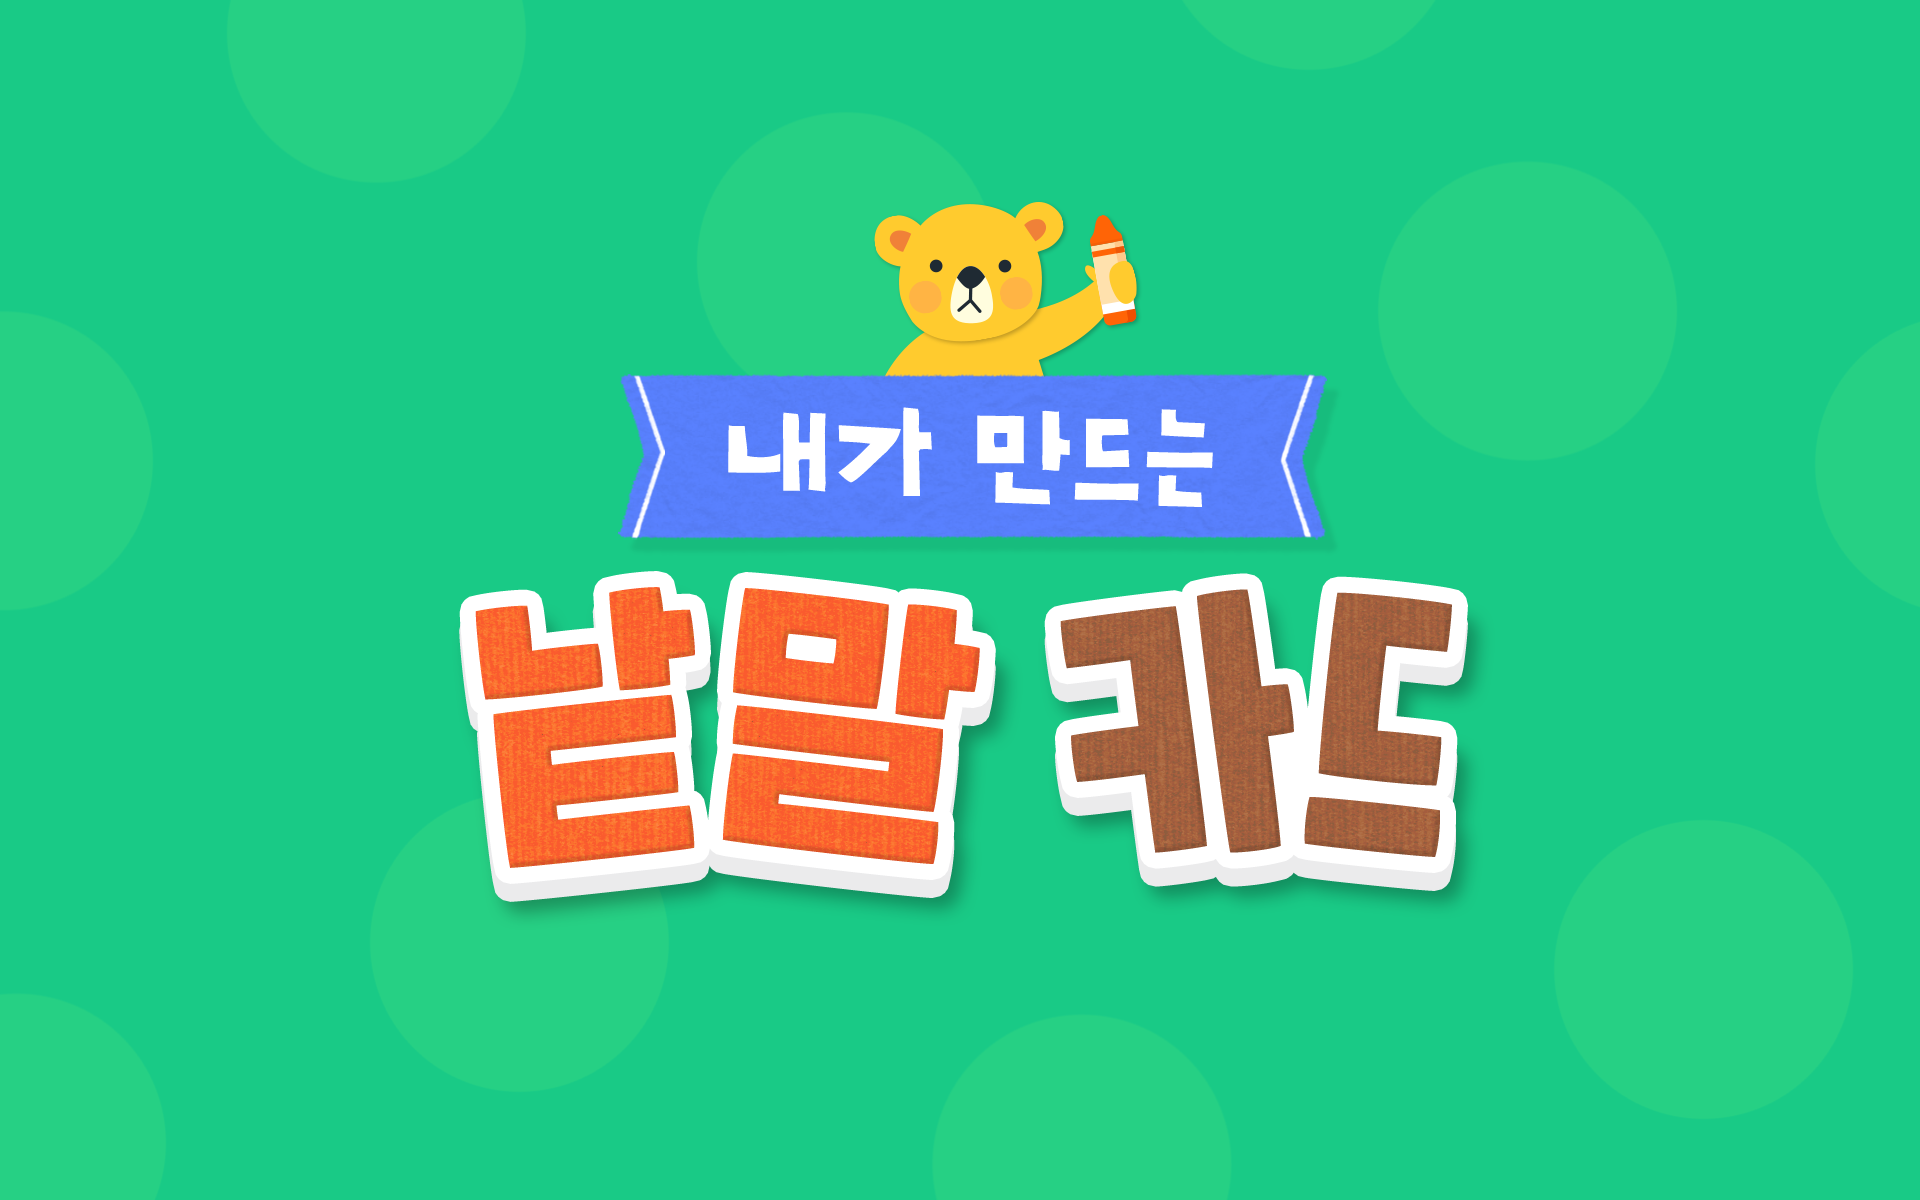
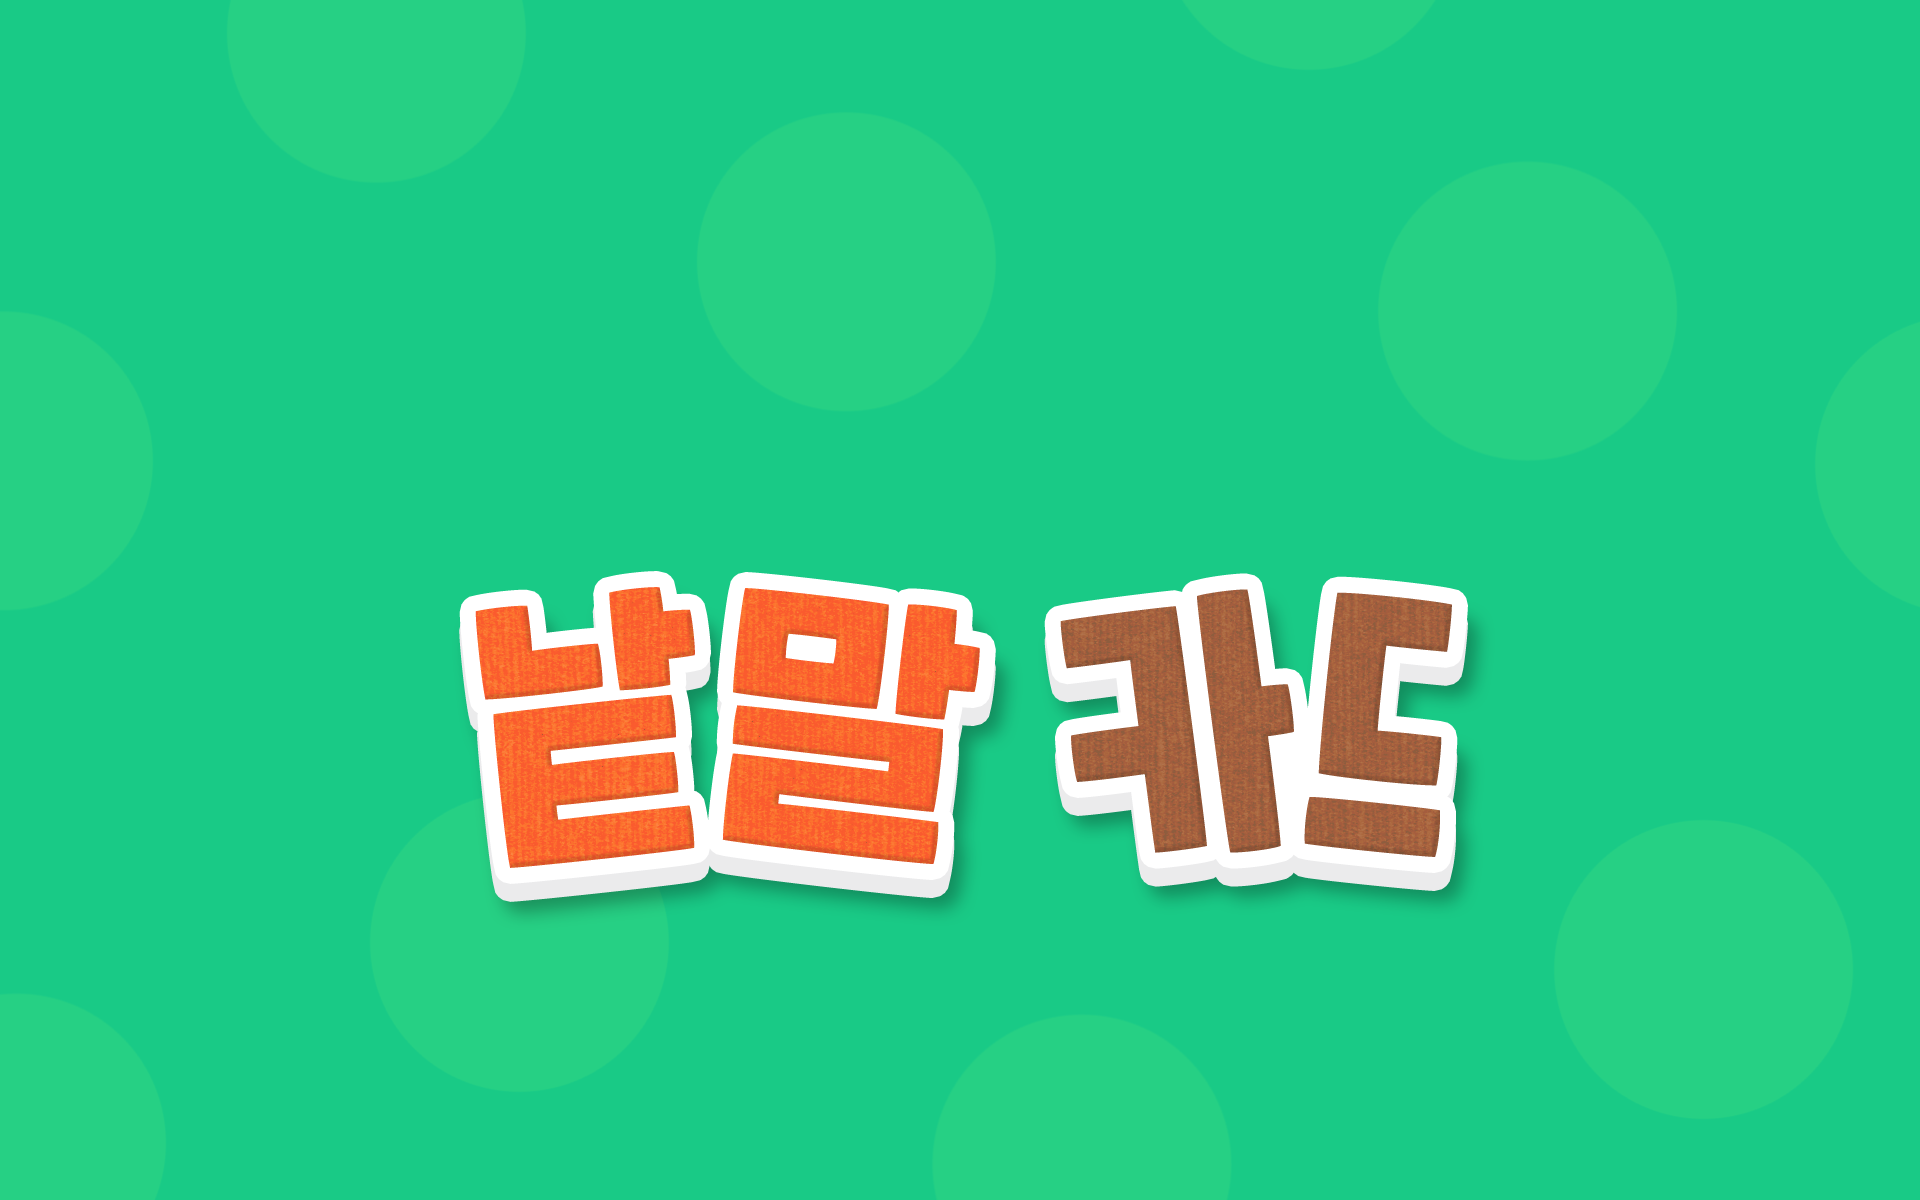
인트로 / 완료 수정

Changed region(s): [[0.3125, 0.1542, 0.6875, 0.4625]]

diff --git a/wj_smartall_kids/COMM/JS/COMMON.JS b/wj_smartall_kids/COMM/JS/COMMON.JS
@@ -45,6 +45,8 @@ var fanfareBgm = new Audio('../../../COMM/MP3/FANFARE.mp3'); // 빵빠레
 var dropBgm3 = new Audio('../../../COMM/MP3/DROPING.mp3'); // 드래그앤드랍 시
 var doneBgm3 = new Audio('../../../COMM/MP3/DONE.mp3'); // 완료
 var coloringBgm = new Audio('../../../COMM/MP3/COLORING.mp3'); // 색칠 시
+var endBgm = new Audio('../../../COMM/MP3/END.mp3'); // 단어카드 완료
+var finishBgm = new Audio('../../../COMM/MP3/GOOD.mp3'); // 마지막 참 잘했어요
 
 const binBtn = document.querySelector('.bin-btn'); // 휴지통 아이콘
 const nextBtn = document.querySelector('.next-btn'); // 다음으로 가기 버튼
@@ -347,7 +349,7 @@ function wordTest() {
         var event = e.originalEvent;
         e.preventDefault();
         // currP = { X: event.touches[0].pageX - pDraw.left+80, Y: event.touches[0].pageY - pDraw.top+70 };
-        currP = { X: event.touches[0].pageX - 120 , Y: event.touches[0].pageY - pDraw.top };
+        currP = { X: event.touches[0].pageX - 120, Y: event.touches[0].pageY - pDraw.top };
         draw_line(currP);
     });
 
@@ -832,10 +834,17 @@ function complatePop() {
         </div>
     `;
     $('<div class="pop-wrap"/>').appendTo('#wrap').html(html);
+    playVid(endBgm);
 
-    setTimeout(function () {
+    $(endBgm).on('ended', function () {
         $('.pop-wrap').addClass('end-pop').html(html2);
-    }, 2000);
+        playVid(finishBgm);
+    });
+
+    // setTimeout(function () {
+    //     $('.pop-wrap').addClass('end-pop').html(html2);
+    //     playVid(finishBgm);
+    // }, 2000);
 }
 
 //종료 함수

diff --git a/wj_smartall_kids/COMM/CSS/STYLE.CSS b/wj_smartall_kids/COMM/CSS/STYLE.CSS
@@ -446,7 +446,6 @@ canvas {
     bottom: 0;
     display: flex;
     justify-content: center;
-    gap: 50px;
 }
 .color-items {
     /* bottom: 0;
@@ -712,6 +711,15 @@ canvas {
 #introBg .bg {
     width: 100%;
 }
+
+#introBg .intro_tit {
+    width: 38%;
+    position: absolute;
+    top: 31%;
+    left: 51%;
+    transform: translateX(-50%);
+    z-index: 2;
+}
 #introBg .introIcon {
     position: absolute;
     transform: rotate(0deg);
@@ -725,9 +733,9 @@ canvas {
 }
 
 #introBg .introIcon1 {
-    width: 85px;
+    width: 235px;
     top: 11%;
-    left: 57%;
+    left: 45%;
 }
 #introBg .introIcon2 {
     width: 113px;
@@ -736,18 +744,18 @@ canvas {
 }
 #introBg .introIcon3 {
     width: 100px;
-    top: 33%;
+    top: 34%;
     left: 70%;
 }
 #introBg .introIcon4 {
     width: 150px;
-    top: 57%;
+    top: 56%;
     left: 12%;
 }
 #introBg .introIcon5 {
     width: 134px;
-    top: 60%;
-    left: 78%;
+    top: 61%;
+    left: 77%;
 }
 
 @keyframes introAni1 {

diff --git a/wj_smartall_kids/gt/1/1_1/INDEX.HTML b/wj_smartall_kids/gt/1/1_1/INDEX.HTML
@@ -139,6 +139,7 @@
 
             <div id="introBg">
                 <img class="bg" src="../../../COMM/IMG/INTRO.png" alt="" />
+                <img class="intro_tit" src="../../../COMM/IMG/INTRO_TIT.png" alt="인트로 타이틀" />
                 <img class="introAni1 introIcon introIcon1" src="../../../COMM/IMG/INTRO_ICON1.png" alt="인트로 아이콘1" />
                 <img class="introAni1 introIcon introIcon2" src="../../../COMM/IMG/INTRO_ICON2.png" alt="인트로 아이콘2" />
                 <img class="introAni1 introIcon introIcon3" src="../../../COMM/IMG/INTRO_ICON3.png" alt="인트로 아이콘3" />
